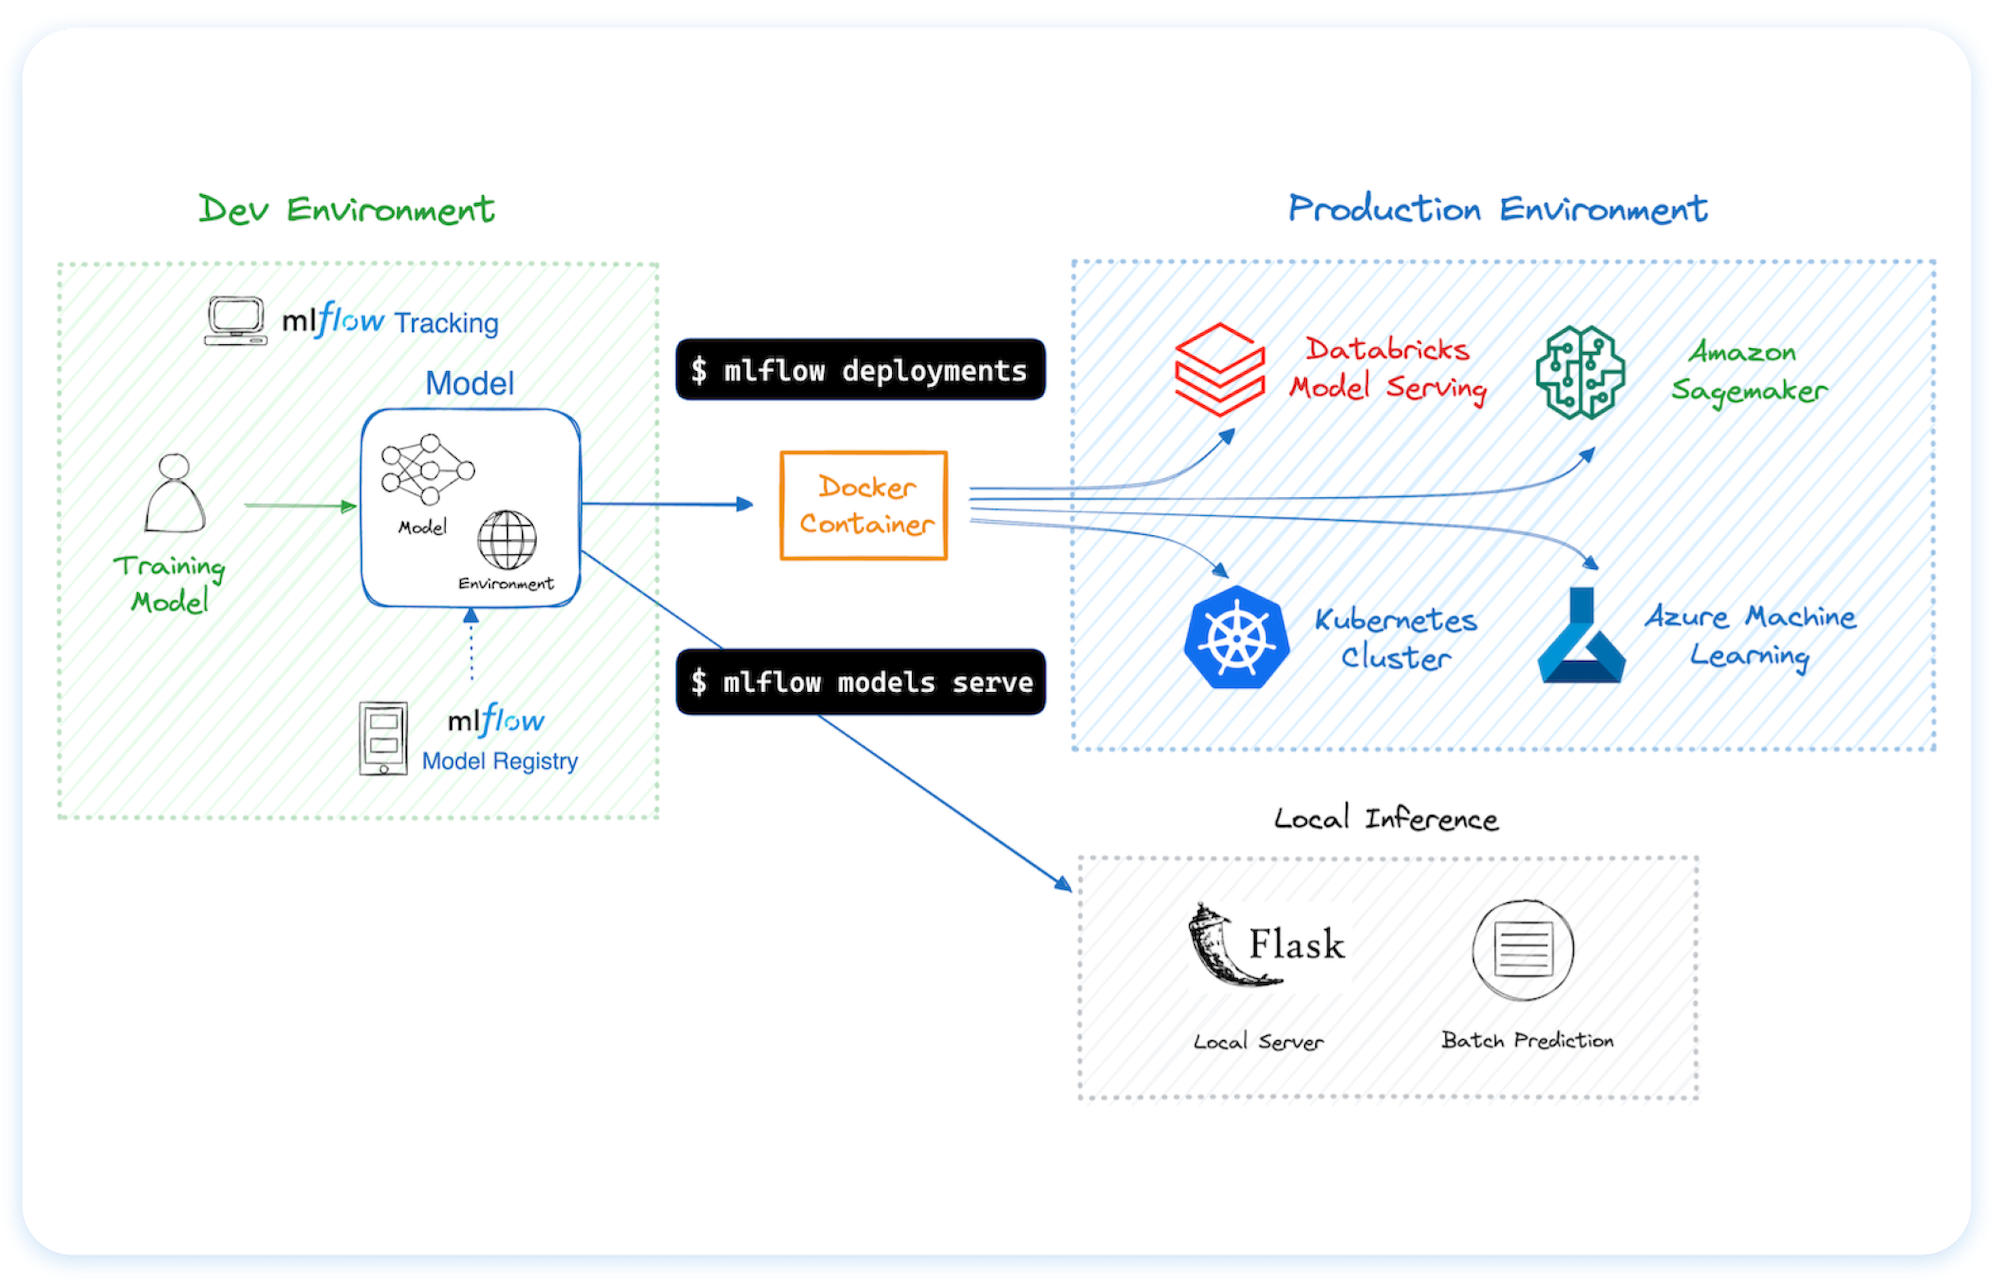
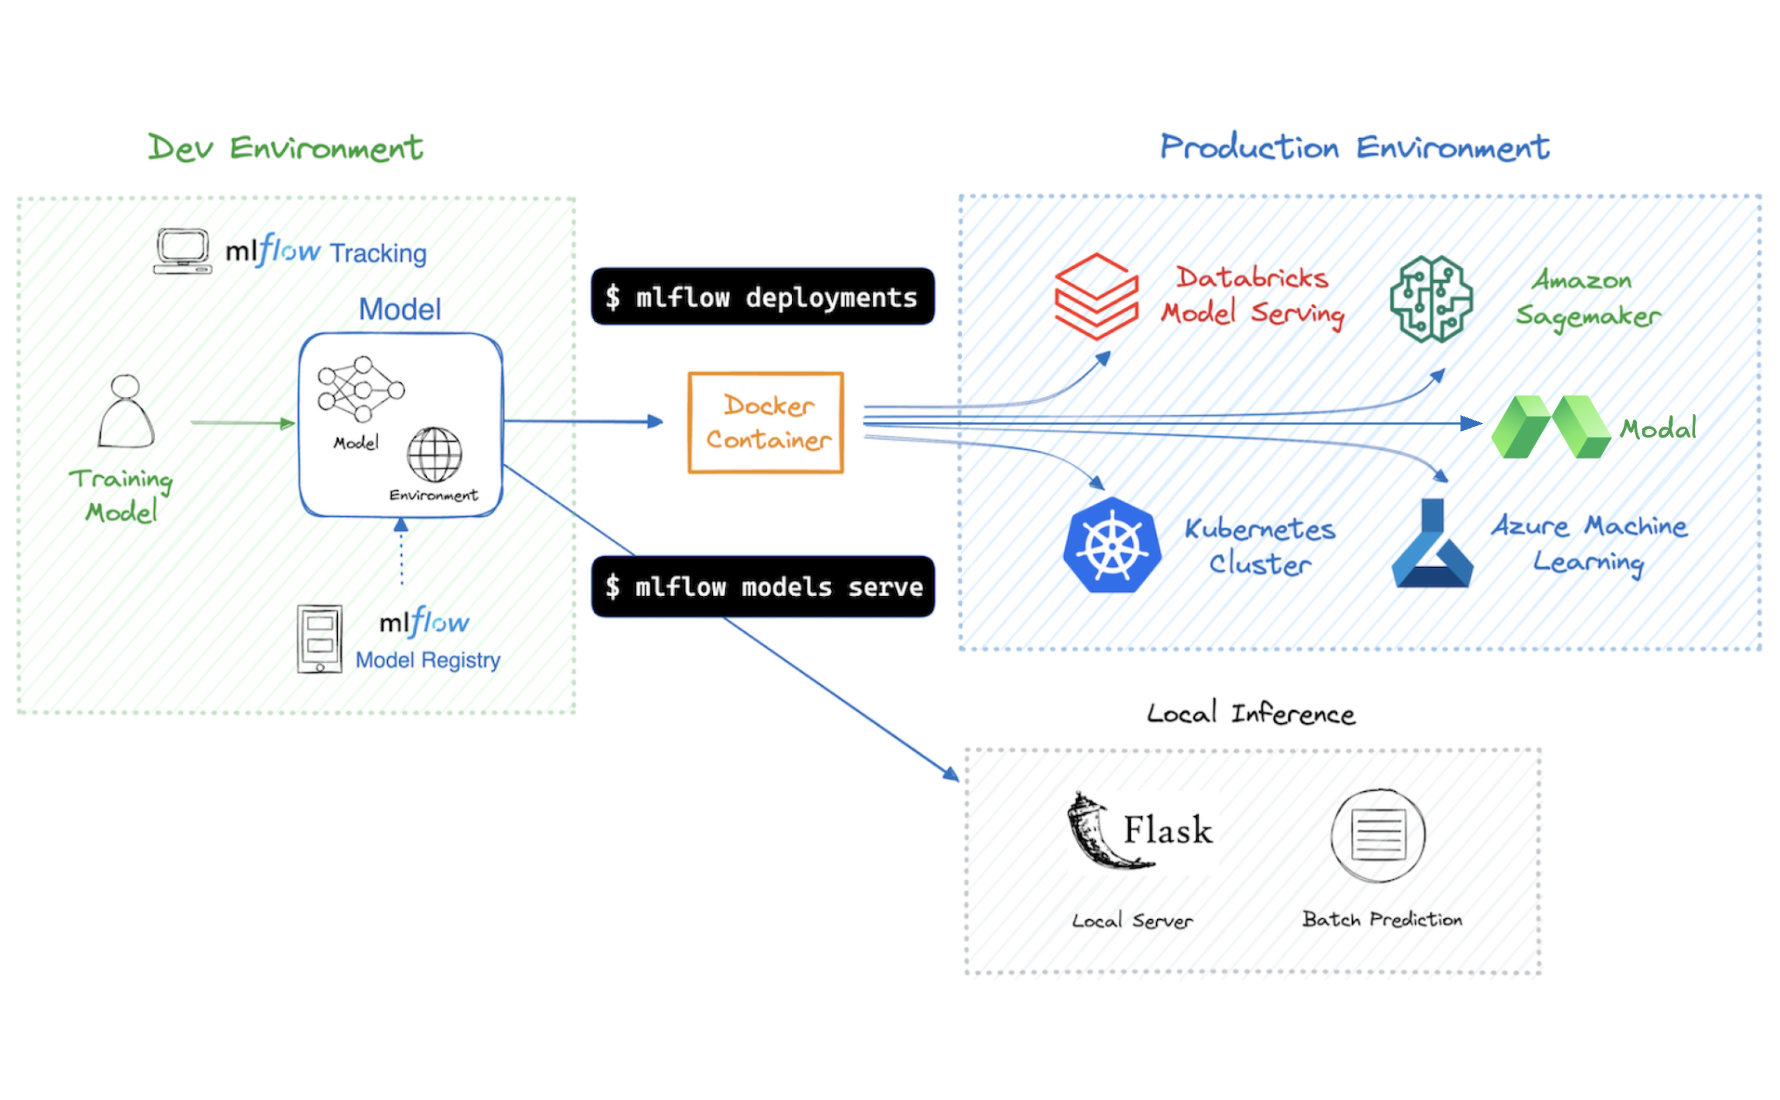
Update deployment overview diagram and README to include Modal (#21673)

diff --git a/README.md b/README.md
@@ -144,7 +144,7 @@ MLflow is **the only platform that provides a unified solution for all your AI/M
         <br>
         <a href="https://mlflow.org/docs/latest/ml/deployment/"><strong>🚀 Deployment</strong></a>
         <br><br>
-        <div> Tools for seamless model deployment to batch and real-time scoring on platforms like Docker, Kubernetes, Azure ML, and AWS SageMaker.</div><br>
+        <div> Tools for seamless model deployment to batch and real-time scoring on platforms like Docker, Kubernetes, Azure ML, AWS SageMaker, and Modal.</div><br>
         <a href="https://mlflow.org/docs/latest/ml/deployment/">Getting Started →</a>
         <br><br>
     </div>

diff --git a/libs/skinny/README_SKINNY.md b/libs/skinny/README_SKINNY.md
@@ -164,7 +164,7 @@ MLflow is **the only platform that provides a unified solution for all your AI/M
         <br>
         <a href="https://mlflow.org/docs/latest/ml/deployment/"><strong>🚀 Deployment</strong></a>
         <br><br>
-        <div> Tools for seamless model deployment to batch and real-time scoring on platforms like Docker, Kubernetes, Azure ML, and AWS SageMaker.</div><br>
+        <div> Tools for seamless model deployment to batch and real-time scoring on platforms like Docker, Kubernetes, Azure ML, AWS SageMaker, and Modal.</div><br>
         <a href="https://mlflow.org/docs/latest/ml/deployment/">Getting Started →</a>
         <br><br>
     </div>
